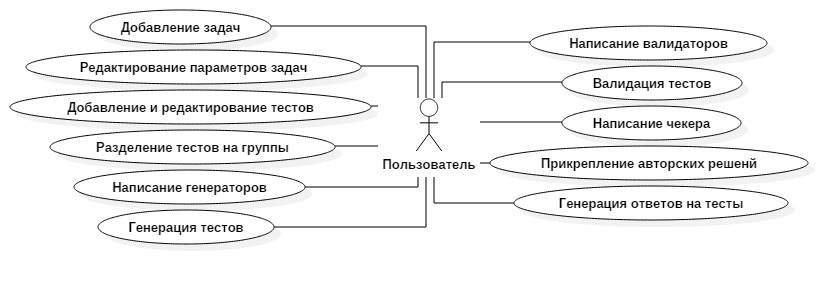
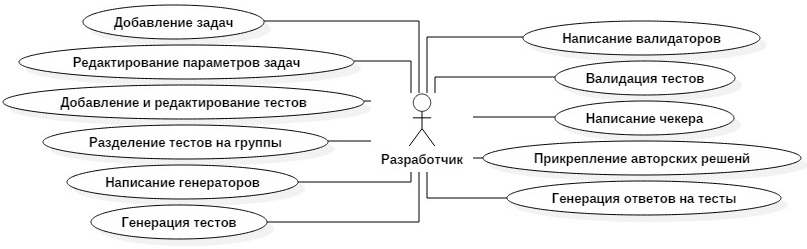
Items from the list of used sources were sorted by different order. Use cases diagrams were replaced by changed ones.

diff --git a/GraduateWork/literature.tex b/GraduateWork/literature.tex
@@ -1,14 +1,14 @@
 \renewcommand{\bibname}{Список использованных источников}
 \begin{thebibliography}{9}
 \addcontentsline{toc}{chapter}{Список использованных источников}
-\bibitem{gamma} Приёмы объектно-ориентированного проектирования. Паттерны проектирования~/ Э. Гамма [и др.].~"--- Санкт-Петербург: Питер, 2001.~"--- 368 с.
-\bibitem{cornell2} Хорстманн К.С. Java. Библиотека профессионала, том 2. Расширенные средства~/ К.С. Хорстманн, Г. Корнелл; пер. с англ. и ред. И.В.Берштейна.~"--- 9-е изд.~"--- Москва: ООО~<<И.Д.~Вильямс>>, 2014.~"--- 1008 с.
+\bibitem{wiki} Олимпиады по программированию // Википедия.~"--- URL: https://ru. wikipedia.org/wiki/Олимпиады\_по\_программированию (дата обращения: 02.05.2016).
 \bibitem{ioi} Международная олимпиада по информатике // Википедия.~"--- URL: https:// ru.wikipedia.org/wiki/Международная\_олимпиада\_по\_информатике (дата обращения: 02.05.2016).
 \bibitem{icpc} Международная студенческая олимпиада по программированию // Википедия.~"--- URL: https://ru.wikipedia.org/wiki/Международная\_студенческая\_ олимпиада\_по\_про\-грам\-ми\-рованию (дата обращения: 02.05.2016).
-\bibitem{wiki} Олимпиады по программированию // Википедия.~"--- URL: https://ru. wikipedia.org/wiki/Олимпиады\_по\_программированию (дата обращения: 02.05.2016).
-\bibitem{codeforces} Платформа Codeforces.~"--- URL: http://codeforces.com/ (дата обращения: 08.02.2016).
 \bibitem{polygon} Платформа Polygon.~"--- URL: https://polygon.codeforces.com/ (дата обращения: 08.02.2016).
+\bibitem{codeforces} Платформа Codeforces.~"--- URL: http://codeforces.com/ (дата обращения: 08.02.2016).
+\bibitem{gamma} Приёмы объектно-ориентированного проектирования. Паттерны проектирования~/ Э. Гамма [и др.].~"--- Санкт-Петербург: Питер, 2001.~"--- 368 с.
 \bibitem{java} Java Platform Standard Edition 8 Documentation.~"--- URL: http:// docs.oracle.com/javase/8/docs/ (дата обращения: 15.03.2016).
 \bibitem{testlib} Testlib // Codeforces.~"--- URL: http://codeforces.com/testlib (дата обращения: 11.04.2016).
+\bibitem{cornell2} Хорстманн К.С. Java. Библиотека профессионала, том 2. Расширенные средства~/ К.С. Хорстманн, Г. Корнелл; пер. с англ. и ред. И.В.Берштейна.~"--- 9-е изд.~"--- Москва: ООО~<<И.Д.~Вильямс>>, 2014.~"--- 1008 с.
 %\bibitem{cornell1} Хорстманн Кей С. Java. Библиотека профессионала, том 1. Основы~/ Кей С. Хорстманн, Гари Корнелл; пер. с англ. и ред. И.В.Берштейна.~"--- 9-е изд.~"--- Москва: ООО~<<И.Д.~Вильямс>>, 2014.~"--- 864 с.
 \end{thebibliography}

diff --git a/GraduateWork/task_statement.tex b/GraduateWork/task_statement.tex
@@ -2,8 +2,8 @@
 
 На рис.~\ref{use_case_diagram_development} изображена диаграмма вариантов использования, связанных с разработкой задач. Предполагается возможность прикреплять к задаче определённые параметры (такие, как ограничения по времени и памяти, условие задачи), а также "--- тесты, генераторы, валидаторы, чекеры и авторские решения (подробнее обо всём этом речь пойдёт в следующей главе).
 
-\begin{figure}[h]
-\center{\includegraphics[scale=0.8]{use_case_diagram_development}}
+\begin{figure}[!b]
+\center{\includegraphics[scale=0.85]{use_case_diagram_development}}
 \caption{Варианты использования (разработка задач)}
 \label{use_case_diagram_development}
 \end{figure}
@@ -13,7 +13,7 @@
 Диаграмма на рис.~\ref{use_case_diagram_testing} отражает варианты использования, связанные с тестированием решений. Заметим здесь, что предполагается возможность отправлять решения, написанные на разных языках: в данной работе мы реализуем поддержу всего двух языков программирования "--- Java и C++. Также приложение должно будет поддерживать различные системы оценивания (их мы также подробно рассмотрим в следующей главе).
 
 \begin{figure}[h]
-\center{\includegraphics[scale=0.65]{use_case_diagram_testing}}
+\center{\includegraphics[scale=0.7]{use_case_diagram_testing}}
 \caption{Варианты использования (тестирование)}
 \label{use_case_diagram_testing}
 \end{figure}
